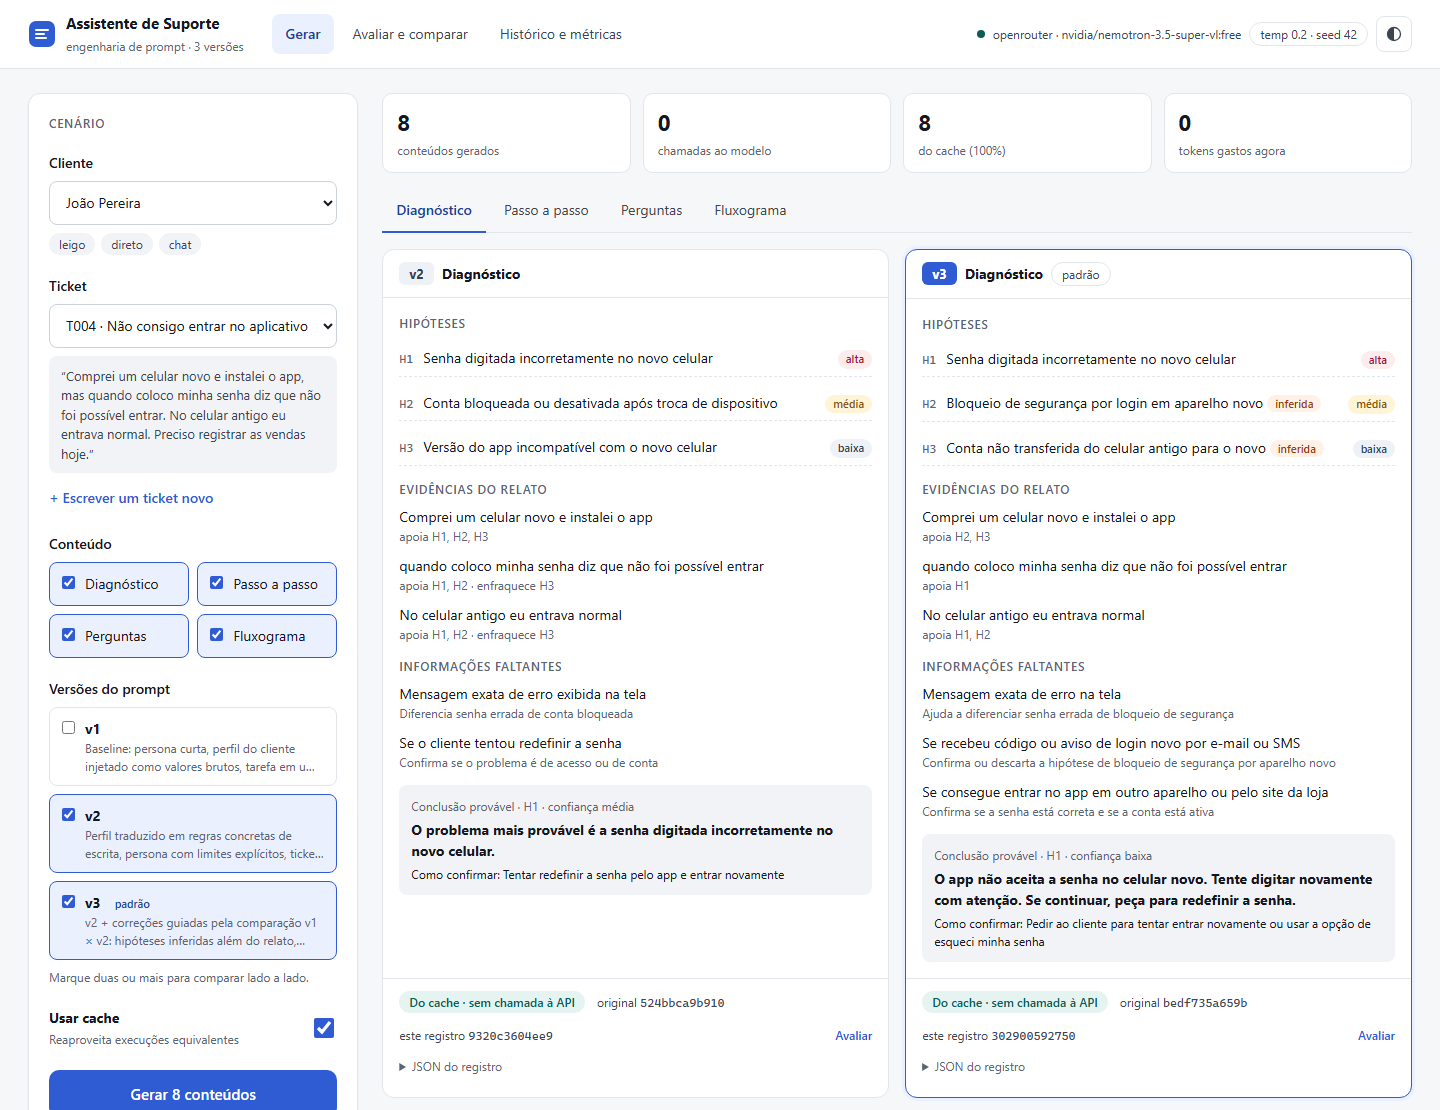
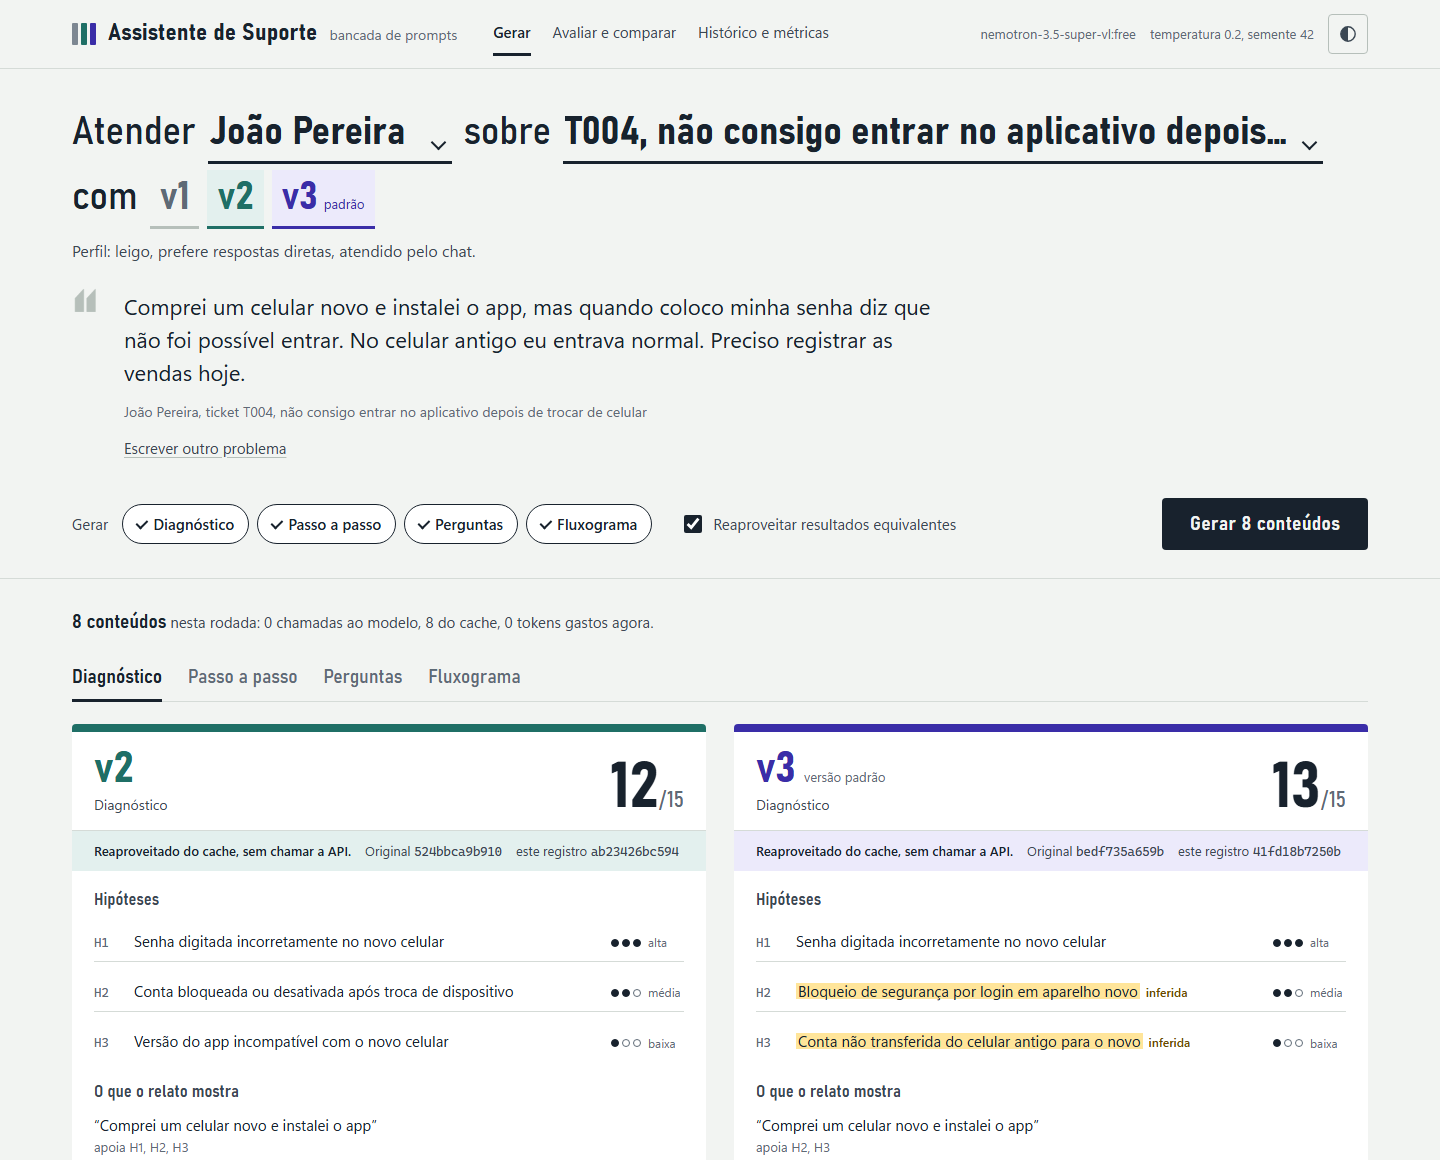
docs: capturas do README no novo design

diff --git a/README.md b/README.md
@@ -22,9 +22,9 @@ Também há:
 
 As decisões de prompt, as comparações v1 × v2 e v2 × v3 e as limitações estão em [PROMPT_ENGINEERING_NOTES.md](PROMPT_ENGINEERING_NOTES.md).
 
-![Interface web: o mesmo cliente e ticket com os prompts v2 e v3 lado a lado. Na v3 o diagnóstico traz hipóteses marcadas como inferidas, e o rodapé de cada card diz que o resultado veio do cache, com o run_id original e o do registro novo.](docs/images/gerar-v2-v3.png)
+![Interface web: no topo, o cenário montado como frase ("Atender João Pereira sobre T004 com v2 e v3") e a mensagem do cliente; abaixo, uma coluna por versão do prompt com a nota da rubrica em destaque (12 e 13 de 15). Na v3, as hipóteses que o cliente não citou aparecem com marca-texto.](docs/images/gerar-v2-v3.png)
 
-*João Pereira (leigo, direto, chat) com o ticket T004 nos prompts v2 e v3. A v3 levanta o bloqueio de segurança por aparelho novo, uma causa que o cliente não citou, marcada como **inferida**.*
+*João Pereira (leigo, direto, chat) com o ticket T004 nos prompts v2 e v3. A v3 levanta o bloqueio de segurança por aparelho novo, uma causa que o cliente não citou, marcada como **inferida**, e a nota do diagnóstico na rubrica sobe de 12 para 13.*
 
 ## Sumário
 
@@ -195,15 +195,20 @@ A interface tem três telas.
 
 #### Gerar
 
-- Escolha o cliente e o ticket (ou escreva um novo), os tipos de conteúdo e as versões do prompt.
-- Os resultados aparecem por tipo, com as versões lado a lado (imagem no topo deste README).
-- Cada tipo tem uma apresentação própria: hipóteses com probabilidade e marca de "inferida", passos numerados com resultado esperado, perguntas com motivo e onde encontrar, e o fluxograma com os pontos de decisão.
-- O rodapé de cada card diz de onde veio o resultado:
-  - "Do cache · sem chamada à API · original `524bbca9b910` · este registro `…`": quando veio do cache;
-  - "Gerado agora · 3,3 s · 1.668 tokens · 1 tentativa": quando chamou o modelo.
+- O cenário é uma frase: "Atender **[cliente]** sobre **[ticket]** com **[v1] [v2] [v3]**". Abaixo dela aparecem o perfil do cliente e a mensagem dele; também dá para escrever outro problema.
+- Cada versão do prompt tem a sua cor, mais escura a cada versão: v1 grafite, v2 petróleo, v3 índigo. Os resultados aparecem por tipo, com uma coluna por versão.
+- Cada coluna mostra a nota da rubrica em destaque. Num resultado vindo do cache, a nota é a da execução original.
+- Cada tipo tem uma apresentação própria:
+  - hipóteses com um medidor de probabilidade e marca-texto nas inferidas;
+  - passos numerados com o resultado esperado;
+  - perguntas com o motivo e onde encontrar a resposta;
+  - o fluxograma com as decisões.
+- A faixa abaixo do cabeçalho diz de onde veio o resultado:
+  - "Reaproveitado do cache, sem chamar a API. Original `524bbca9b910`, este registro `…`";
+  - "Gerado agora em 3,3 s. 1.668 tokens, 1 tentativa".
 - Na v3, mostra também qual diagnóstico alimentou o prompt.
 
-![Aba Fluxograma em tema escuro: à esquerda a v2, com caixas desenhadas pelo modelo em linha reta; à direita a v3, desenhada pelo código a partir do grafo, com os dois ramos de cada decisão visíveis.](docs/images/fluxograma-v2-v3.png)
+![Aba Fluxograma em tema escuro: à esquerda a v2 (nota 11), com caixas desenhadas pelo modelo em linha reta; à direita a v3 (nota 13), desenhada pelo código a partir do grafo, com os dois ramos de cada decisão visíveis.](docs/images/fluxograma-v2-v3.png)
 
 *Fluxograma da v2 (desenhado pelo modelo, em linha reta e sem os ramos das decisões) e da v3 (o modelo devolve um grafo e o código desenha, com os dois ramos de cada decisão à vista).*
 
@@ -215,7 +220,7 @@ A interface tem três telas.
 
 ![Tela de avaliação: a lista de execuções do cenário, o fluxograma da v3 e a rubrica com nota de 1 a 5 e justificativa para clareza, adequação ao cliente e acionabilidade.](docs/images/avaliar-rubrica.png)
 
-![Comparação v2 × v3 na interface: notas por critério e por tipo, delta do total e tokens, com v2 = 49, v3 = 51 e a v3 como vencedora.](docs/images/comparacao-v2-v3.png)
+![Comparação v2 × v3 na interface: totais 49 e 51 na cor de cada versão, notas por critério e por tipo, variação do total e tokens; a v3 vence.](docs/images/comparacao-v2-v3.png)
 
 #### Histórico e métricas
 
